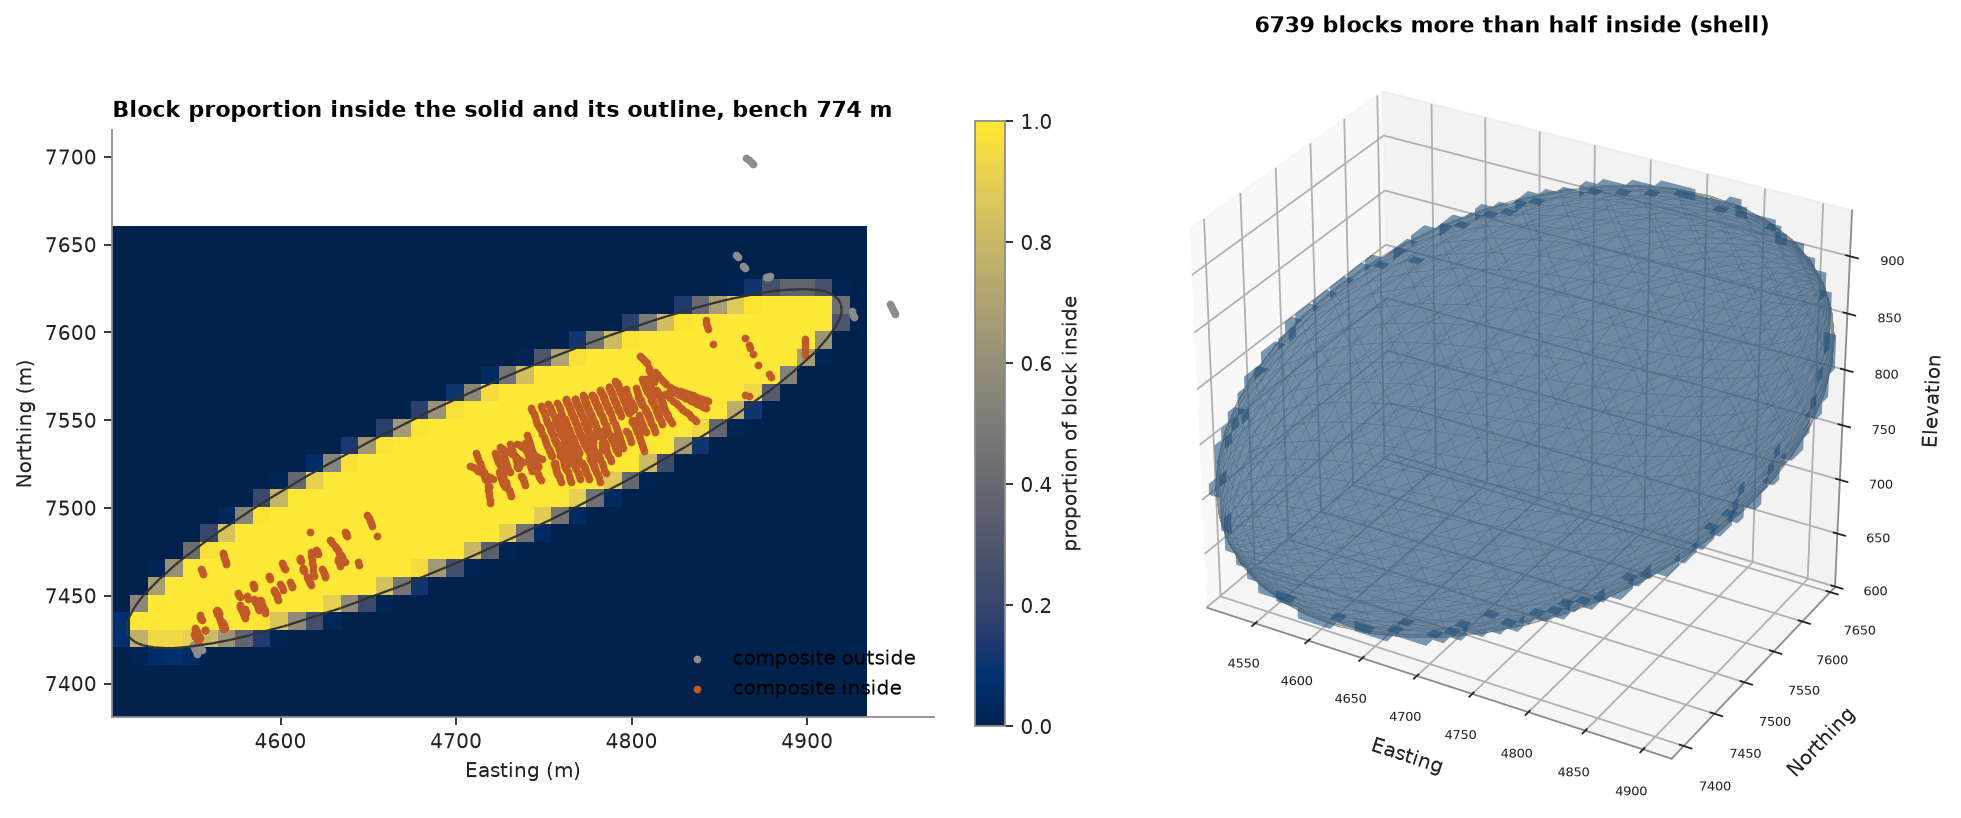
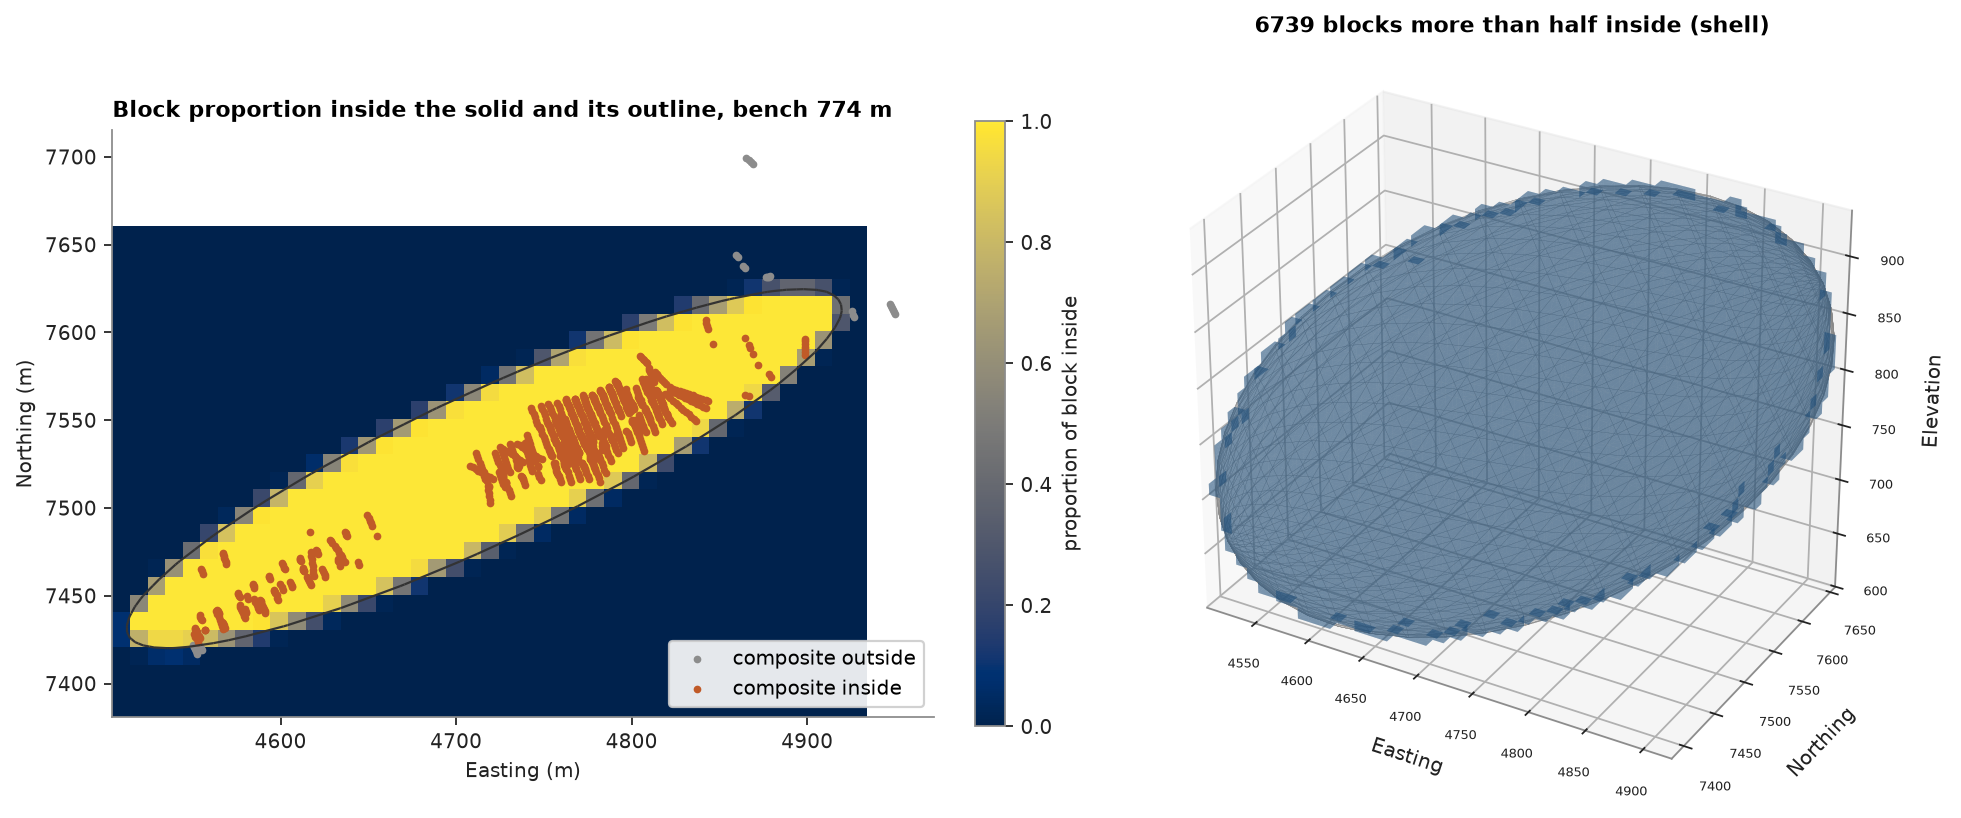
docs(examples): readable legend on the chapter 7 bench

Changed region(s): [[0.3422, 0.7641, 0.4666, 0.8863]]

diff --git a/examples/07-solids/example_07.py b/examples/07-solids/example_07.py
@@ -111,7 +111,7 @@ cs.plot.slab(
     ax=a,
 )
 a.set_title(f"Block proportion inside the solid and its outline, bench {level:.0f} m")
-a.legend(loc="lower right")
+a.legend(loc="lower right", frameon=True, framealpha=0.9)
 fig.colorbar(a.images[0], ax=a, shrink=0.8, label="proportion of block inside")
 
 b = fig.add_subplot(1, 2, 2, projection="3d")

diff --git a/examples/07-solids/README.md b/examples/07-solids/README.md
@@ -124,7 +124,7 @@ cs.plot.slab(
     ax=a,
 )
 a.set_title(f"Block proportion inside the solid and its outline, bench {level:.0f} m")
-a.legend(loc="lower right")
+a.legend(loc="lower right", frameon=True, framealpha=0.9)
 fig.colorbar(a.images[0], ax=a, shrink=0.8, label="proportion of block inside")
 
 b = fig.add_subplot(1, 2, 2, projection="3d")
